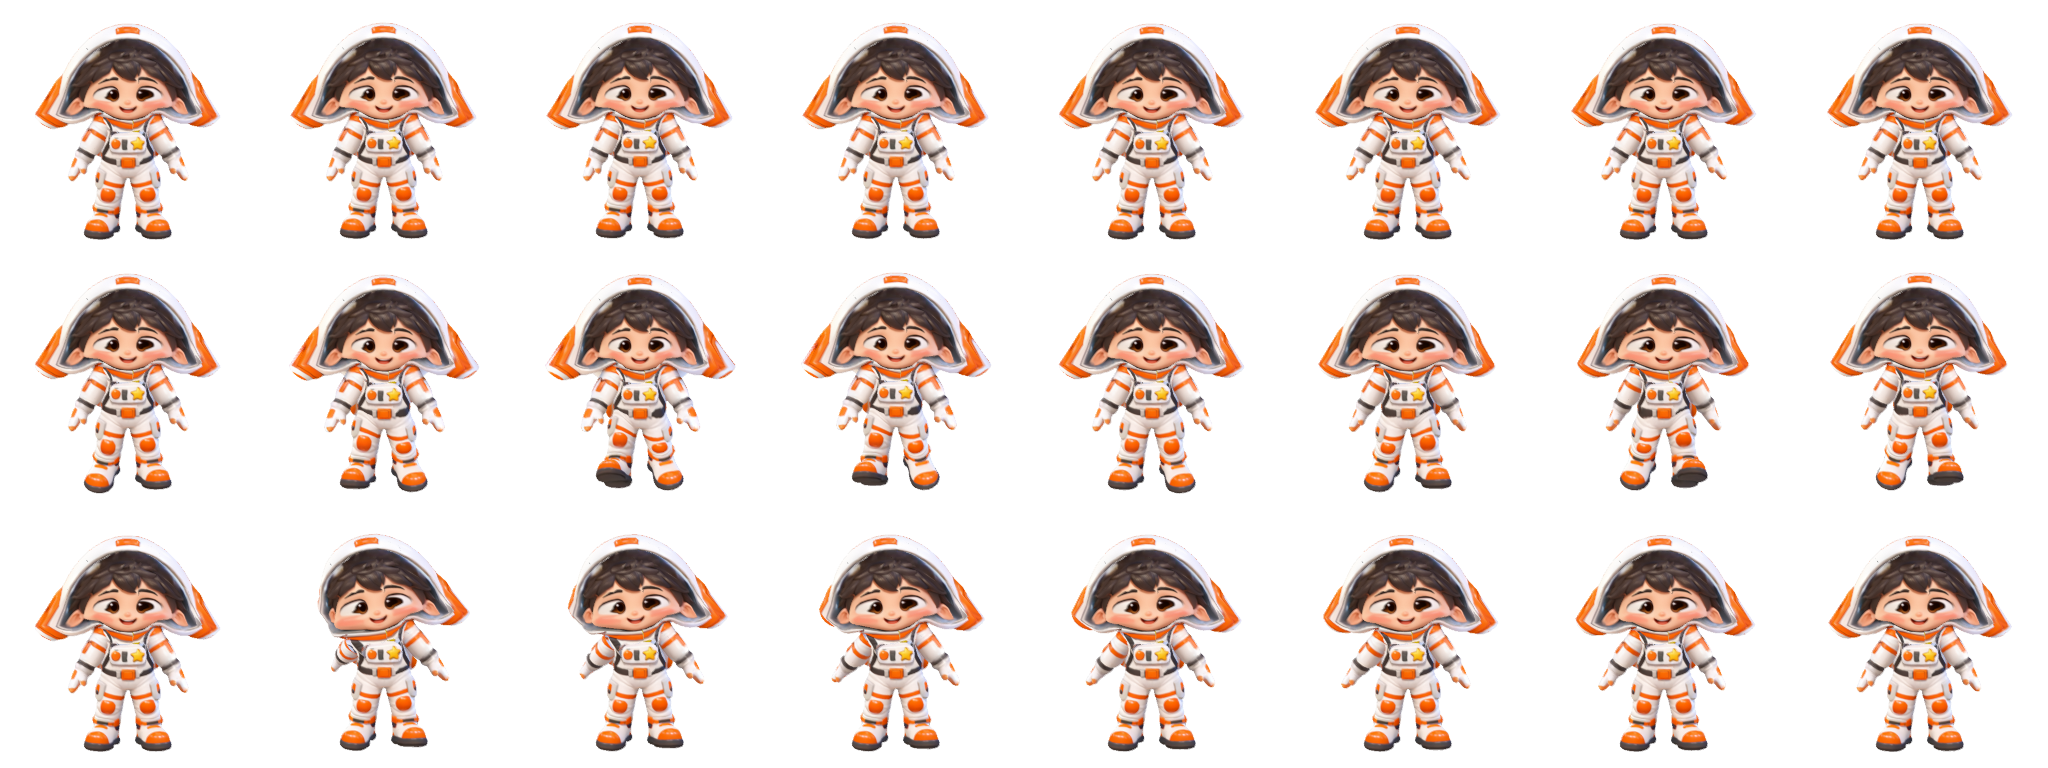
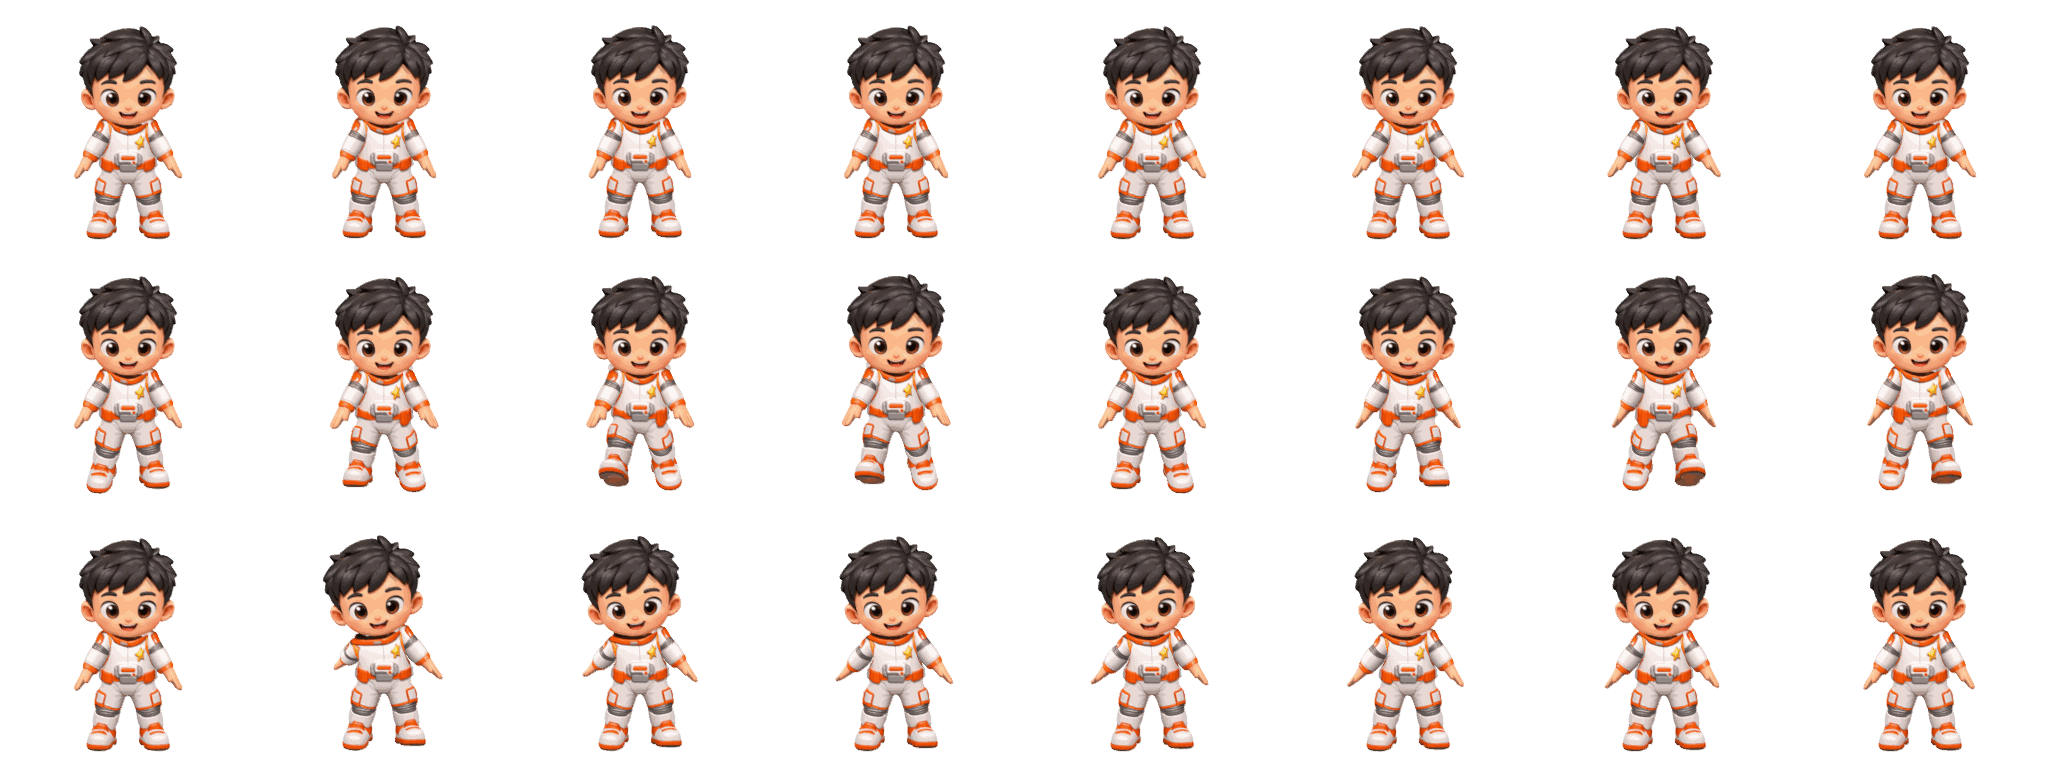
fix(ui): 폰 가로 — 점수 윗줄 한 줄·알림(넘침 식·더블 발사)을 오른쪽 빈 패널로 · PC 윗줄 높이(점수가 낙하 영역을 덮던 것) · 도키 헬멧 없는 원화로 재리그(256색 145KB)
- qa-play: 점수·윗줄 ↔ 낙하 영역 겹침 0 · 넓은 화면 배너 ↔ 판 겹침 0 단언(PC·태블릿 빨강 → 수정)

Claude-Session: https://claude.ai/code/session_01AF1GFCfmkdeA4pBn8MkY72

diff --git a/src/main.ts b/src/main.ts
@@ -389,12 +389,20 @@ function layoutDom(): void {
   $('hint').style.top = `${L.rocketTop + L.rocketH * 0.12}px`;
   // 배너는 떨어지는 칸·연료통을 가리면 안 된다 — 넓은 화면은 오른쪽 빈 패널, 좁은 화면은 맨 위 «보관·다음» 줄 위
   const root = document.documentElement.style;
-  if (L.wide && L.sideW >= 300) {
+  // 🔴 폰 가로(옆 패널 183px)도 오른쪽 빈 패널로 — 300px 미만이라 가운데로 떨어져 통을 가렸다(2026-10-13 «알림도 한가운데 나오고»)
+  if (L.wide && L.sideW >= 150) {
     root.setProperty('--banner-left', `${L.w - L.sideW / 2}px`);
-    root.setProperty('--banner-top', `${L.spawnTop + L.spawnH}px`);
+    root.setProperty('--banner-top', `${L.spawnTop + (L.sideW >= 300 ? L.spawnH : 0)}px`);
     root.setProperty('--banner-max', `${L.sideW - 12}px`);
-    root.setProperty('--banner-fs', `${Math.round(Math.min(L.h * 0.046, L.sideW / 8.5))}px`);
+    root.setProperty("--banner-fs", `${Math.round(Math.max(14, Math.min(L.h * 0.046, L.sideW / 11)))}px`);
+    // 행동 반응 큰 글자(더블 발사! 등)도 같은 패널에
+    root.setProperty('--gbj-banner-left', `${L.w - L.sideW / 2}px`);
+    root.setProperty('--gbj-banner-top', `${Math.round(L.tubeTop + L.tubeH * 0.55)}px`);
+    root.setProperty('--gbj-banner-max', `${L.sideW - 8}px`);
   } else {
+    root.removeProperty('--gbj-banner-left');
+    root.removeProperty('--gbj-banner-top');
+    root.removeProperty('--gbj-banner-max');
     root.setProperty('--banner-left', '50%');
     // 세로 화면은 맨 위가 «다음» 칸 미리보기라(1.6초 가리면 계획을 못 한다) 아래 로켓 줄 위로
     root.setProperty('--banner-top', `${L.wide ? L.hudH + 2 : Math.min(L.rocketTop + 4, L.h - 120)}px`);

diff --git a/src/style.css b/src/style.css
@@ -167,9 +167,9 @@ button:focus-visible { outline: 3px solid var(--gb-accent); outline-offset: 2px;
 .hud-btn .ic { width: 46%; height: 46%; }
 .gb-icon .ic { width: 55%; height: 55%; }
 
-/* 세로 폰 — 윗줄을 «한 줄»로(2026-10-13 «위가 너무 좁아 · 맨 위 한 줄로»): 시계·발사 수·점수를 단추 줄에 가로로 붙이고
+/* 세로 폰·폰 가로(높이 520 이하) — 윗줄을 «한 줄»로(2026-10-13 «위가 너무 좁아 · 맨 위 한 줄로»): 시계·발사 수·점수를 단추 줄에 가로로 붙이고
    시계 아이콘이 숫자 위로 쌓이지 않게 한다. 레이아웃(hudH·보관 줄 높이)은 src/render/layout.ts 와 같은 비율 */
-@media (max-aspect-ratio: 13/10) {
+@media (max-aspect-ratio: 13/10), (max-height: 520px) {
   #modeBar .gb-modebar { font-size: 15px; gap: 4px; }
   #modeBar .gb-chip { display: inline-flex; align-items: center; gap: 3px; white-space: nowrap; padding: 5px 7px; font-size: 15px; }
   #modeBar .gb-chip .gb-ic, #modeBar .gb-chip .ic { width: 0.95em; height: 0.95em; }
@@ -181,3 +181,7 @@ button:focus-visible { outline: 3px solid var(--gb-accent); outline-offset: 2px;
 }
 
 .sr { position: absolute; width: 1px; height: 1px; overflow: hidden; clip: rect(0 0 0 0); white-space: nowrap; }
+
+/* 행동 반응 큰 글자 — 넓은 화면은 게임이 오른쪽 패널로 옮긴다(--gbj-banner-left) */
+.gbj-banner { left: var(--gbj-banner-left, 50%); max-width: var(--gbj-banner-max, 92vw); white-space: normal;
+  font-size: min(clamp(22px, 8vw, 44px), calc(var(--gbj-banner-max, 92vw) / 6)); }

diff --git a/src/render/assets.ts b/src/render/assets.ts
@@ -49,10 +49,9 @@ export class Art {
     const m = this.manifest;
     this.rockets = await Promise.all(m.rockets.map((u) => loadImage(u)));
     // 도키 아틀라스(1.2MB)는 첫 화면을 막지 않게 뒤에서 — 넓은 화면(옆 패널)에서만 그린다
-    // 🔴 지금 도키 리그는 Firefly 3D 가 유리 헬멧을 납작한 두건으로 만들고 얼굴을 뭉갰다(2026-10-13 «왼쪽 사람 얼굴 왜 저래»)
-    //    — 헬멧 없는 원화로 다시 리그할 때까지 그리지 않는다. 다시 켜기 = DOKI_READY 를 true 로
-    const DOKI_READY = false;
-    const dk = DOKI_READY ? m.doki : undefined;
+    // 🔴 옛 도키는 Firefly 3D 가 유리 헬멧을 납작한 두건으로 만들고 얼굴을 뭉갰다(2026-10-13 «왼쪽 사람 얼굴 왜 저래»)
+    //    → 헬멧 없는 원화(doki-v2)로 다시 리그했다. 투명 돔·유리 같은 재질은 3D 복원이 망가뜨린다
+    const dk = m.doki;
     if (dk) {
       void Promise.all([
         loadImage(dk.image),

diff --git a/src/render/layout.ts b/src/render/layout.ts
@@ -29,7 +29,9 @@ export interface Layout {
 export function computeLayout(w: number, h: number, tanks: number): Layout {
   const wide = w / h > 1.3;
   // 세로 폰은 윗줄이 단추 한 줄(단추 = CSS --tap 과 같은 식)
-  const hudH = wide ? Math.round(Math.max(58, Math.min(h * 0.12, 132))) : Math.round(Math.max(44, Math.min(h * 0.082, w * 0.125, 96)) + 12);
+  // 넓은 화면은 단추 줄 + 그 아래 큰 점수까지(점수가 낙하 영역을 덮던 것 — 2026-10-13 게이트), 낮은 가로 폰(≤520)은 CSS 처럼 한 줄
+  const oneLine = !wide || h <= 520;
+  const hudH = oneLine ? Math.round(Math.max(44, Math.min(h * 0.082, w * 0.125, 96)) + 12) : Math.round(Math.max(58, Math.min(h * 0.165, 180)));
   const sideW = wide ? Math.round(Math.min(w * 0.2, 380)) : 0;
   const maxPlay = tanks > 5 ? h * 1.75 : h * 1.2;
   const playW = Math.round(Math.min(w - sideW * 2 - 16, maxPlay));
